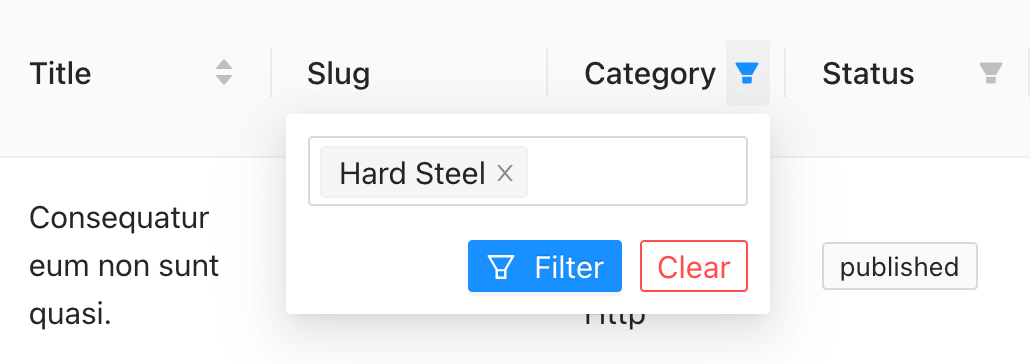
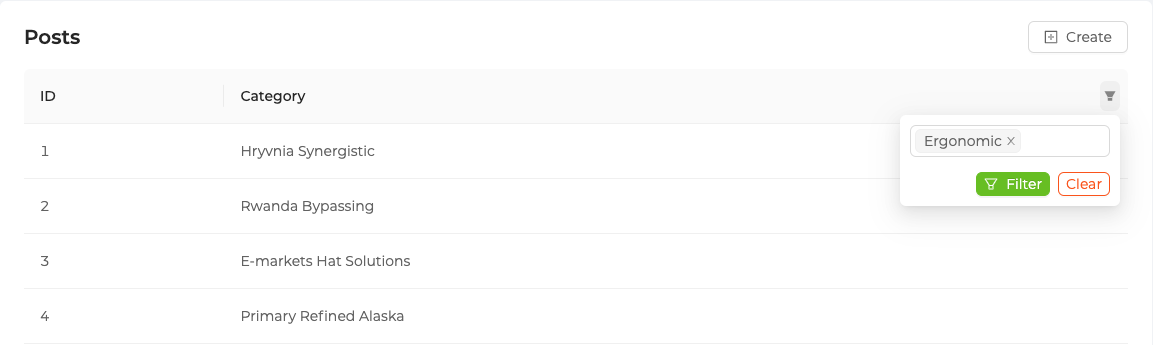
fix image and imports

diff --git a/documentation/docs/api-references/components/filter-dropdown.md b/documentation/docs/api-references/components/filter-dropdown.md
@@ -13,7 +13,7 @@ import filterDropdown from '@site/static/img/category_filter-dropdown.png';
 It serves as a bridge by synchronizing between its children's input value and `<Table>`'s filter values.
 
 ```tsx title="components/pages/postList.tsx"
-import { List, Table, useTable } from "@pankod/refine";
+import { List, Table, FilterDropdown, useTable } from "@pankod/refine";
 
 const PostList: React.FC<IResourceComponentsProps> = (props) => {
     const { tableProps } = useTable<IPost>();
@@ -35,8 +35,8 @@ const PostList: React.FC<IResourceComponentsProps> = (props) => {
                                 mode="multiple"
                                 placeholder="Select Category"
                                 options={[
-                                    { label: "Hard Steel", value: "1" },
-                                    { label: "Png Thx", value: "2" },
+                                    { label: "Ergonomic", value: "1" },
+                                    { label: "Island", value: "2" },
                                 ]}
                             />
                         </FilterDropdown>
@@ -54,11 +54,16 @@ Selecting categories from dropdown will send the id's of categories as filtering
 
 `<FilterDropdown>` will put two buttons for filtering and clearing filter actions.
 
-<div style={{textAlign: "center",  backgroundColor:"#efefef",  padding: "13px 10px 10px"}}>
-
-<img style={{width: "60%"}} src={filterDropdown} />
-
+<div class="img-container">
+    <div class="window">
+        <div class="control red"></div>
+        <div class="control orange"></div>
+        <div class="control green"></div>
+    </div>
+    <img src={filterDropdown} alt="Show record action" />
 </div>
+
+
 <br/>
 
 :::tip
